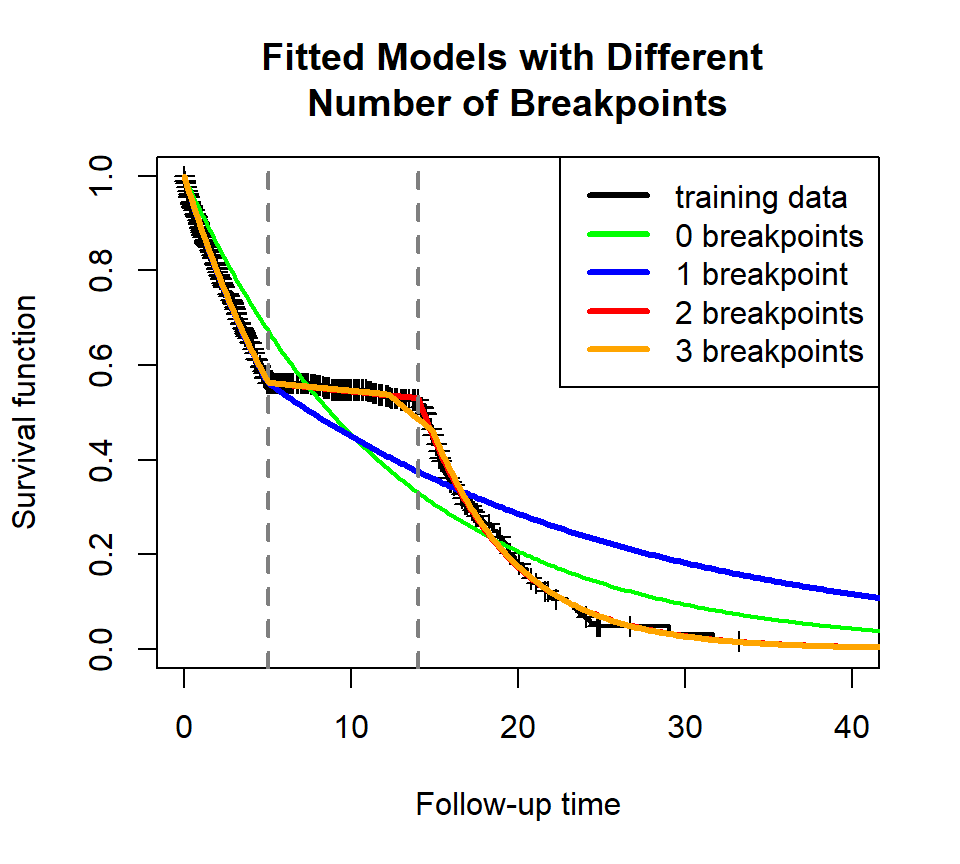
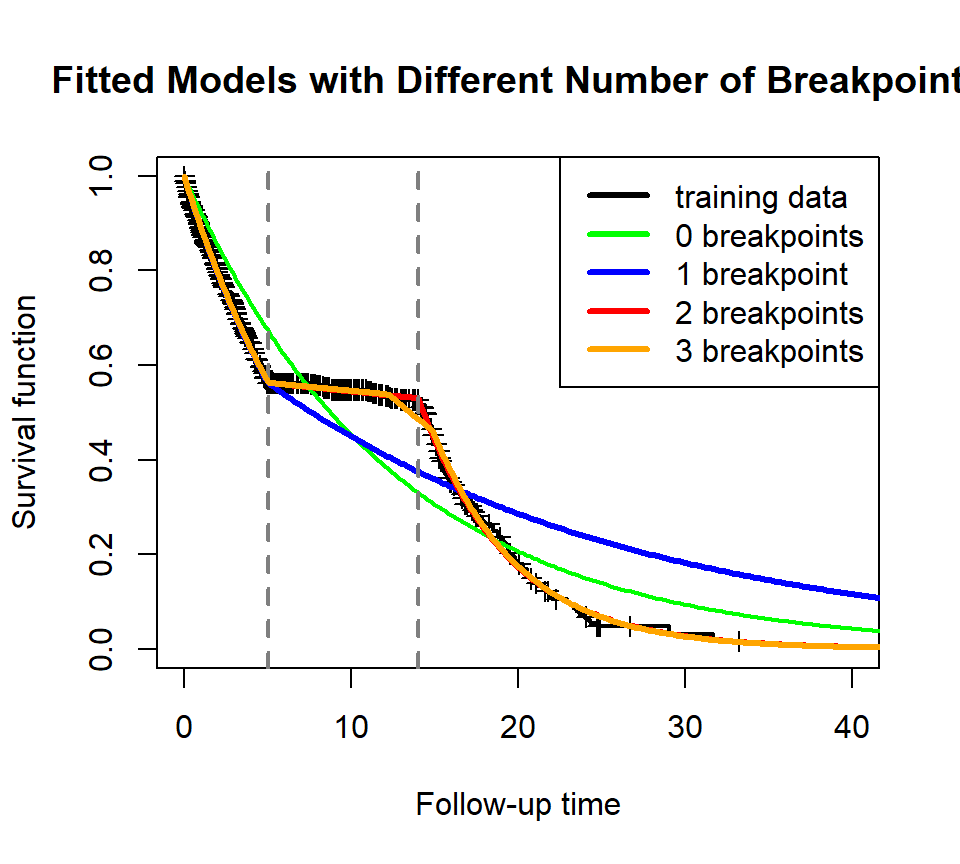
update to v 0.5.0

Changed region(s): [[0.0312, 0.0312, 1.0, 0.1562]]

diff --git a/docs/index.html b/docs/index.html
@@ -420,19 +420,19 @@ prediction</li>
 number of events or timeline (for bootstrapping model)</li>
 <li>the <code>plot_event()</code> plots predicted number of events (for
 object <code>predict.pwexp.fit</code>) and its CI (if applicable, for
-object <code>predict.boot.pwexp.fit()</code>)</li>
+object <code>predict.boot.pwexp.fit</code>)</li>
 </ul></li>
 <li><strong>Auxiliary Functions</strong>
 <ul>
-<li>the auxiliary function <code>sim_followup</code> is used to estimate
-follow-up time and number of events at design stage (See <a
+<li>the auxiliary function <code>sim_followup()</code> is used to
+estimate follow-up time and number of events at design stage (See <a
 href="#simfollow">‘Simulate Event Curve or Timeline’ Section</a> for
 more details).</li>
-<li>the auxiliary functions <code>dpwexp</code>, <code>ppwexp</code>,
-<code>qpwexp</code>, <code>rpwexp</code> are the PDF, CDF, quantile
-function, generator function for piecewise exponential distribution (See
-<a href="#dist">‘Piecewise Exponential Distribution’ Section</a> for
-more details)</li>
+<li>the auxiliary functions <code>dpwexp()</code>,
+<code>ppwexp()</code>, <code>qpwexp()</code>, <code>rpwexp()</code> are
+the PDF, CDF, quantile function, generator function for piecewise
+exponential distribution (See <a href="#dist">‘Piecewise Exponential
+Distribution’ Section</a> for more details)</li>
 <li>the auxiliary functions <code>ppwexp_conditional()</code>,
 <code>qpwexp_conditional()</code>, <code>rpwexp_conditional()</code> are
 the CDF, quantile function, generator function for conditional piecewise
@@ -618,7 +618,7 @@ an ‘abnormal’ tail (e.g., sudden drop near tail), see <a
 href="#tailproblem">‘Deal with Tail Problem’ Section</a> for more
 details.)</span></p>
 <pre class="r"><code># Plot fitted survival curves
-plot_survival(train$followT, train$event, xlim=c(0,40), main=&#39;Fitted Models with Different \nNumber of Breakpoints&#39;)
+plot_survival(train$followT, train$event, xlim=c(0,40), main=&#39;Fitted Models with Different Number of Breakpoints&#39;)
 plot_survival(fit_b0, col=&#39;green&#39;, lwd=2)
 plot_survival(fit_b1, col=&#39;blue&#39;, lwd=3, show_breakpoint = F)
 plot_survival(fit_b2,  col=&#39;red&#39;, lwd=3, breakpoint_par = list(col=&#39;grey50&#39;, lty=2))
@@ -685,15 +685,15 @@ legend(&#39;bottomright&#39;, c(&#39;data used to train model&#39;, &#39;true ev
 <code>eval_at</code>:</p>
 <pre class="r"><code>head(pred_event)</code></pre>
 <pre><code>##      time  n_event 5% n_event 95% n_event
-## [1,]   40 442.2981   442.0000    443.3977
-## [2,]   45 522.0239   508.7972    533.4494
-## [3,]   50 598.3102   581.7136    615.8071
-## [4,]   55 648.7116   631.5353    666.4399
-## [5,]   60 680.7656   662.9982    698.3782
-## [6,]   65 710.1584   692.0214    728.0905</code></pre>
+## [1,]   40       NA         NA          NA
+## [2,]   45 521.3936   515.2072    527.3660
+## [3,]   50 596.7533   588.6054    608.2372
+## [4,]   55 648.6572   639.3276    661.2978
+## [5,]   60 680.6617   670.0583    692.4307
+## [6,]   65 709.3788   697.9938    720.8868</code></pre>
 <p><br></p>
 <p>By adding argument <code>xyswitch=TRUE</code>, we can use
-<code>predict()</code> function to obtain the timeline given the number
+<code>plot_event</code> function to obtain the timeline given the number
 of events in the future.</p>
 <pre class="r"><code>plot_event(dat$followT_abs, xlim=c(0, 800), event=dat$event, xyswitch=T, main=&#39;Predicted Timeline&#39;)
 plot_event(train$followT_abs, abs_time=T, event=train$event, add=T, xyswitch=T, col=&#39;blue&#39;)
@@ -702,11 +702,11 @@ legend(&#39;bottomright&#39;, c(&#39;data used to train model&#39;, &#39;true ti
 <p><img src="index_files/figure-html/unnamed-chunk-14-1.png" width="480" /></p>
 <pre class="r"><code>head(pred_time)</code></pre>
 <pre><code>##      n_event     time  5% time 95% time
-## [1,]     500 43.60552 43.03980 44.40382
-## [2,]     550 46.85908 46.01132 47.91024
-## [3,]     600 50.12874 49.04125 51.37223
-## [4,]     650 55.15502 52.75895 57.92389
-## [5,]     700 63.17729 60.28632 67.46113</code></pre>
+## [1,]     500 43.60571 43.33773 43.99611
+## [2,]     550 46.90158 46.38358 47.39651
+## [3,]     600 50.23076 49.47902 50.79577
+## [4,]     650 55.20042 53.53378 56.64160
+## [5,]     700 63.38812 61.16910 65.48845</code></pre>
 <p><br></p>
 </div>
 <div id="appendix" class="section level1">
